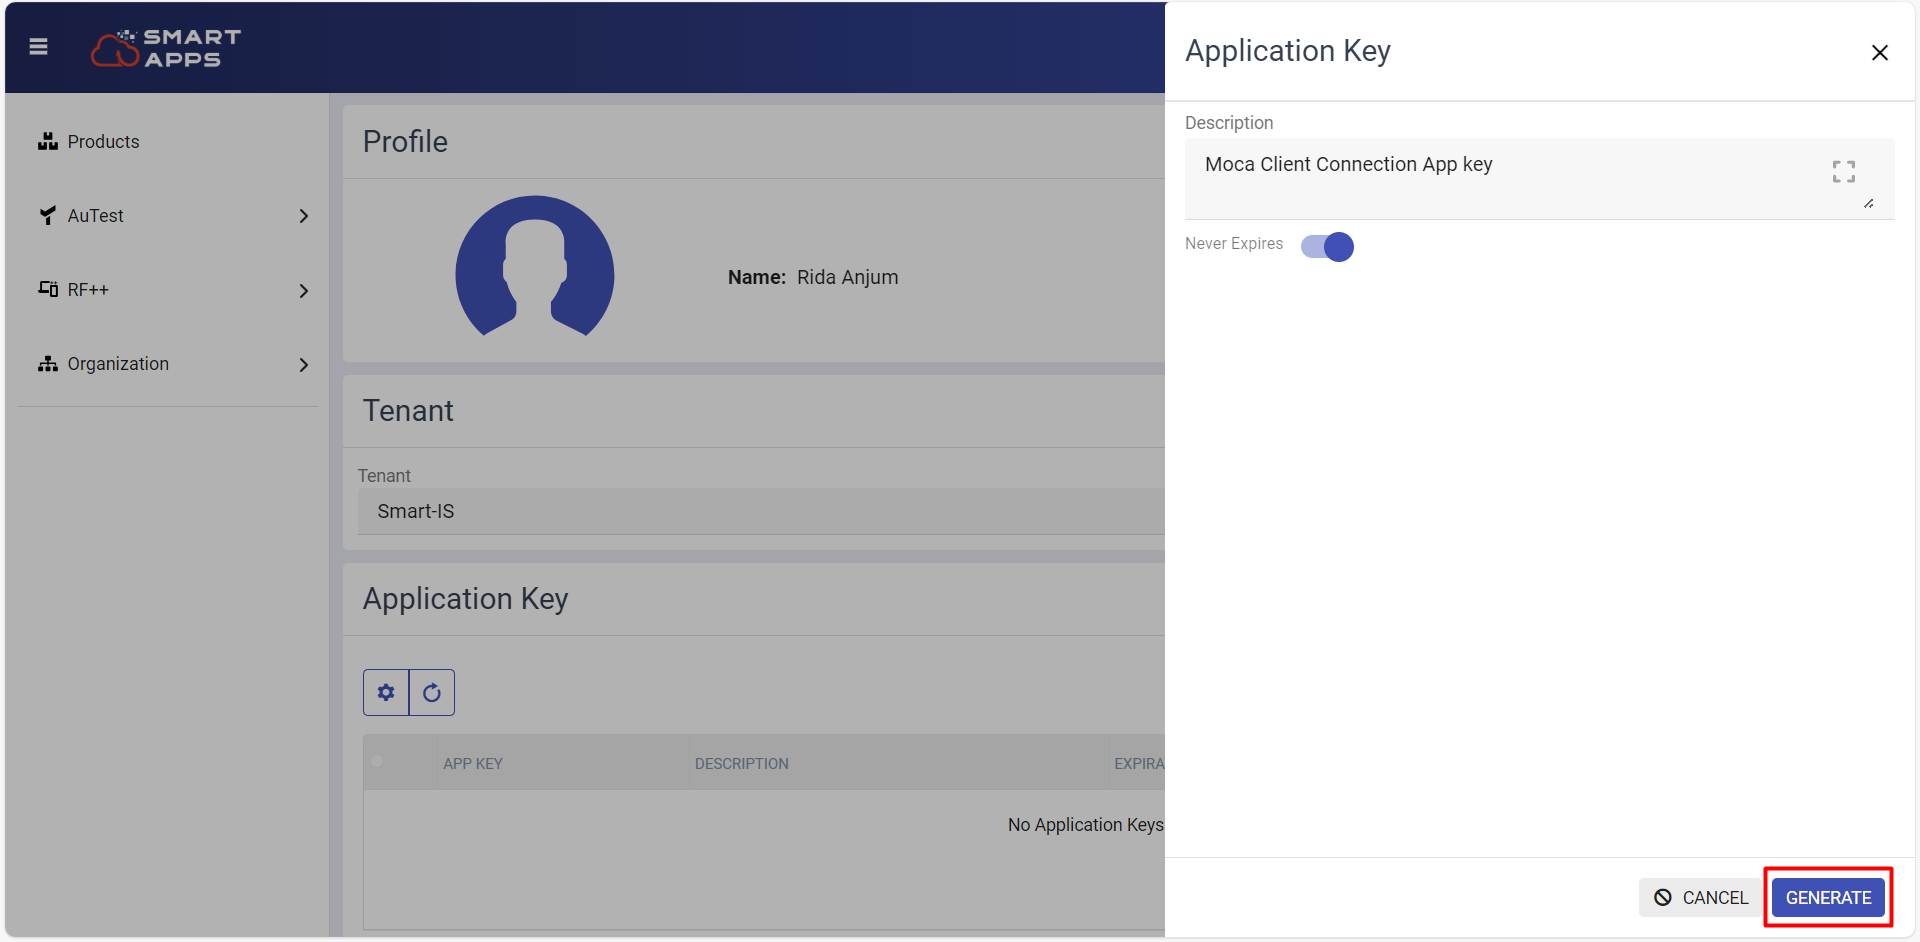
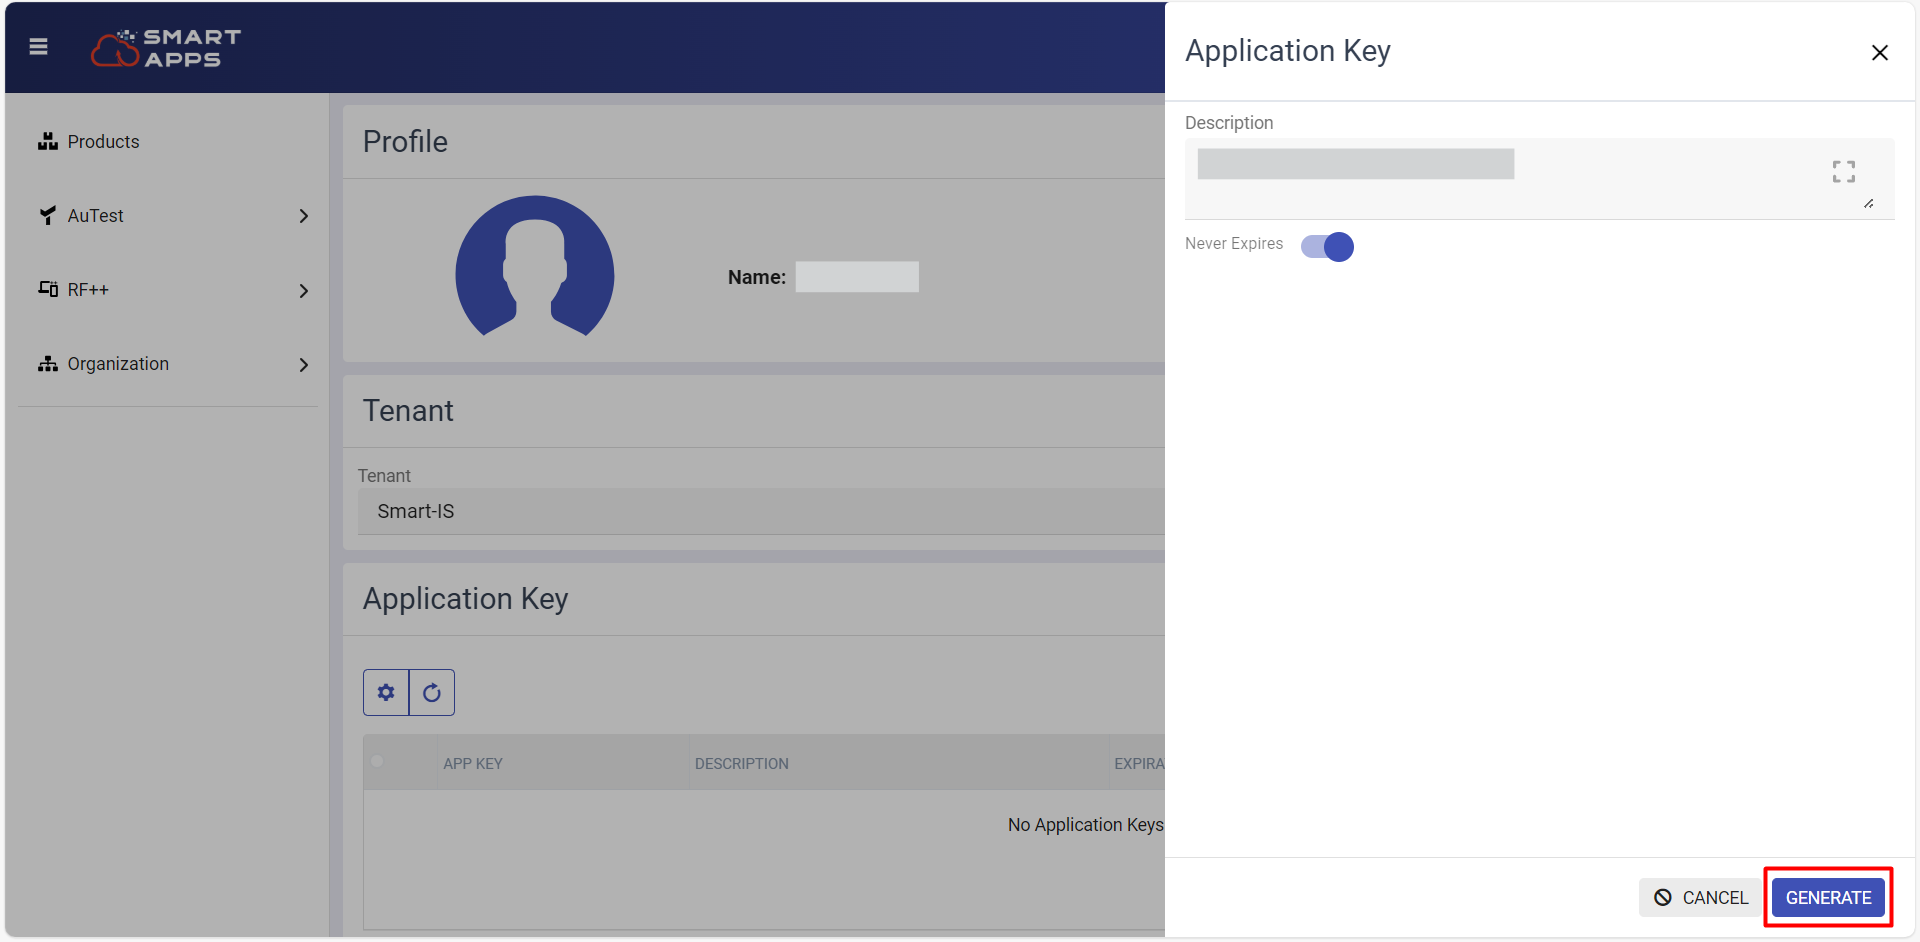
Images and broken links
Change some images to hide data and some on the links are broken inside pages for redirect so they are updated

Changed region(s): [[0.625, 0.1539, 0.8125, 0.2155], [0.4062, 0.2771, 0.5, 0.3079]]

diff --git a/docs/devops.md b/docs/devops.md
@@ -8,13 +8,13 @@ This document outlines these features and their functionalities.
 
 ### File Navigation
 
-To enable the File Browser, please refer to the instructions provided in the [File-browser](./File-browser.md)
+To enable the File Browser, please refer to the instructions provided in the [File-browser](./file-browser.md)
 
 ---
 
 ### Edit Server Files
 
-To enable the Edit Server Files, please refer to the instructions provided in the [Edit-Server-Files](./Edit-Server-Files.md)
+To enable the Edit Server Files, please refer to the instructions provided in the [Edit-Server-Files](./edit-server-files.md)
 
 ---
 
@@ -40,7 +40,7 @@ Use menu option Options->Format in real-time?
 
 ## Issue Assignment
 
-To enable the Issue Assignment, please refer to the instructions provided in the [Issue-Assignment](./Issue-Assignment.md)
+To enable the Issue Assignment, please refer to the instructions provided in the [Issue-Assignment](./issue-assignment.md)
 
 ---
 
@@ -64,22 +64,22 @@ Feature to view the hierarchy of MOCA commands.
 
 ## Report Preview
 
-To enable the Report Preview, please refer to the instructions provided in the [Report Preview](./Report-Preview.md)
+To enable the Report Preview, please refer to the instructions provided in the [Report Preview](./report-preview.md)
 
 ---
 
 ## Label Viewer
 
-To enable the Label Viewer, please refer to the instructions provided in the [Print Label Operations](./Print-Label-Operations.md)
+To enable the Label Viewer, please refer to the instructions provided in the [Print Label Operations](./print-label-operations.md)
 
 ---
 
 ## Trace
 
-To enable the Moca Trace, please refer to the instructions provided in the [Smart MOCA Trace](./MOCA_Trace.md)
+To enable the Moca Trace, please refer to the instructions provided in the [Smart MOCA Trace](./moca-trace.md)
 
 ---
 
 ## DB Trace
 
-To enable the DB Trace, please refer to the instructions provided in the [DataBase Trace](./Database-Trace.md)
+To enable the DB Trace, please refer to the instructions provided in the [DataBase Trace](./database-trace.md)

diff --git a/docs/advance-operations.md b/docs/advance-operations.md
@@ -4,13 +4,13 @@ The Advanced System Operations in the Smart MOCA Client offer a comprehensive su
 
 ## File Browser
 
-To enable the File Browser, please refer to the instructions provided in the [File Browser](./File-browser.md)
+To enable the File Browser, please refer to the instructions provided in the [File Browser](./file-browser.md)
 
 ---
 
 ## Database Trace
 
-To enable the Database Trace, please refer to the instructions provided in the [Database Trace](./Database-Trace.md)
+To enable the Database Trace, please refer to the instructions provided in the [Database Trace](./database-trace.md)
 
 ---
 
@@ -143,10 +143,10 @@ The RP Console in the Smart MOCA Client is a powerful tool designed for managing
 
 ## Report Preview
 
-To enable the Report Preview, please refer to the instructions provided in the [Report Preview](./Report-Preview.md).
+To enable the Report Preview, please refer to the instructions provided in the [Report Preview](./report-preview.md).
 
 
 ## Print Label Operations
 
-To enable the Print Label Operations, please refer to the instructions provided in the [Print Label Operations](./Print-Label-Operations.md).
+To enable the Print Label Operations, please refer to the instructions provided in the [Print Label Operations](./print-label-operations.md).
 

diff --git a/docs/edit-server-files.md b/docs/edit-server-files.md
@@ -9,7 +9,7 @@ Editing files within the Smart MOCA Client is a seamless process. Users can acce
 
 - File Browser will get open where you can see all the directories and files.
 
-- Refer to the [File-Browser](./File-browser.md) for a comprehensive guide on navigating and utilizing the File Browser effectively.
+- Refer to the [File-Browser](./file-browser.md) for a comprehensive guide on navigating and utilizing the File Browser effectively.
 
     ![FileNavigation](./.attachments/File-browser_3.png)
 

diff --git a/docs/adhoc-access.md b/docs/adhoc-access.md
@@ -142,7 +142,7 @@ These are scripts that show up for use when right clicking the grid for certain 
 
 ## Tracing
 
-Follow [Smart MOCA Trace](./MOCA_Trace.md) to enable tracing.
+Follow [Smart MOCA Trace](./moca-trace.md) to enable tracing.
 
 ---
 
